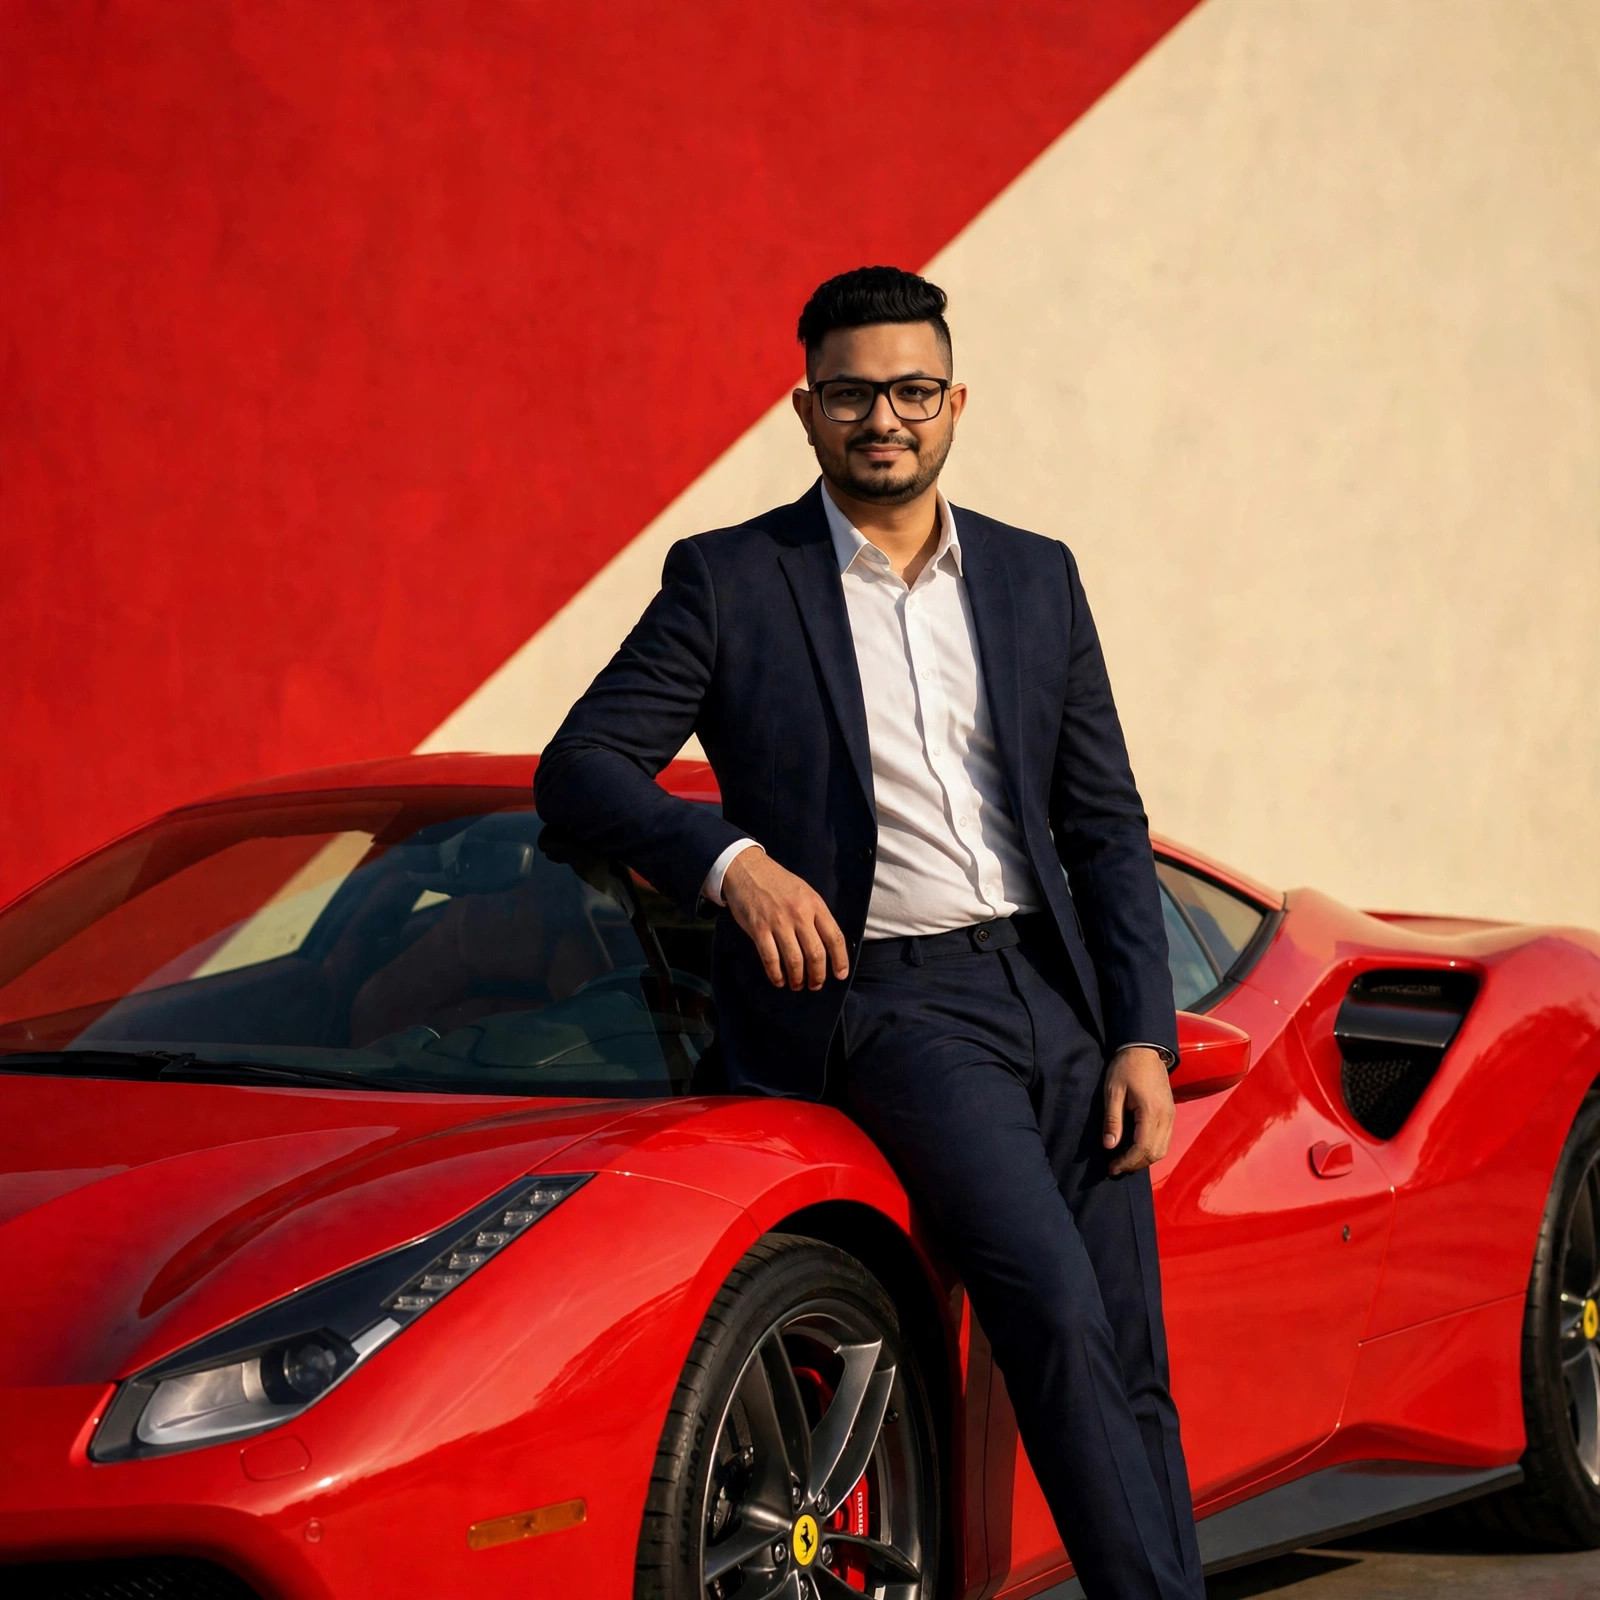
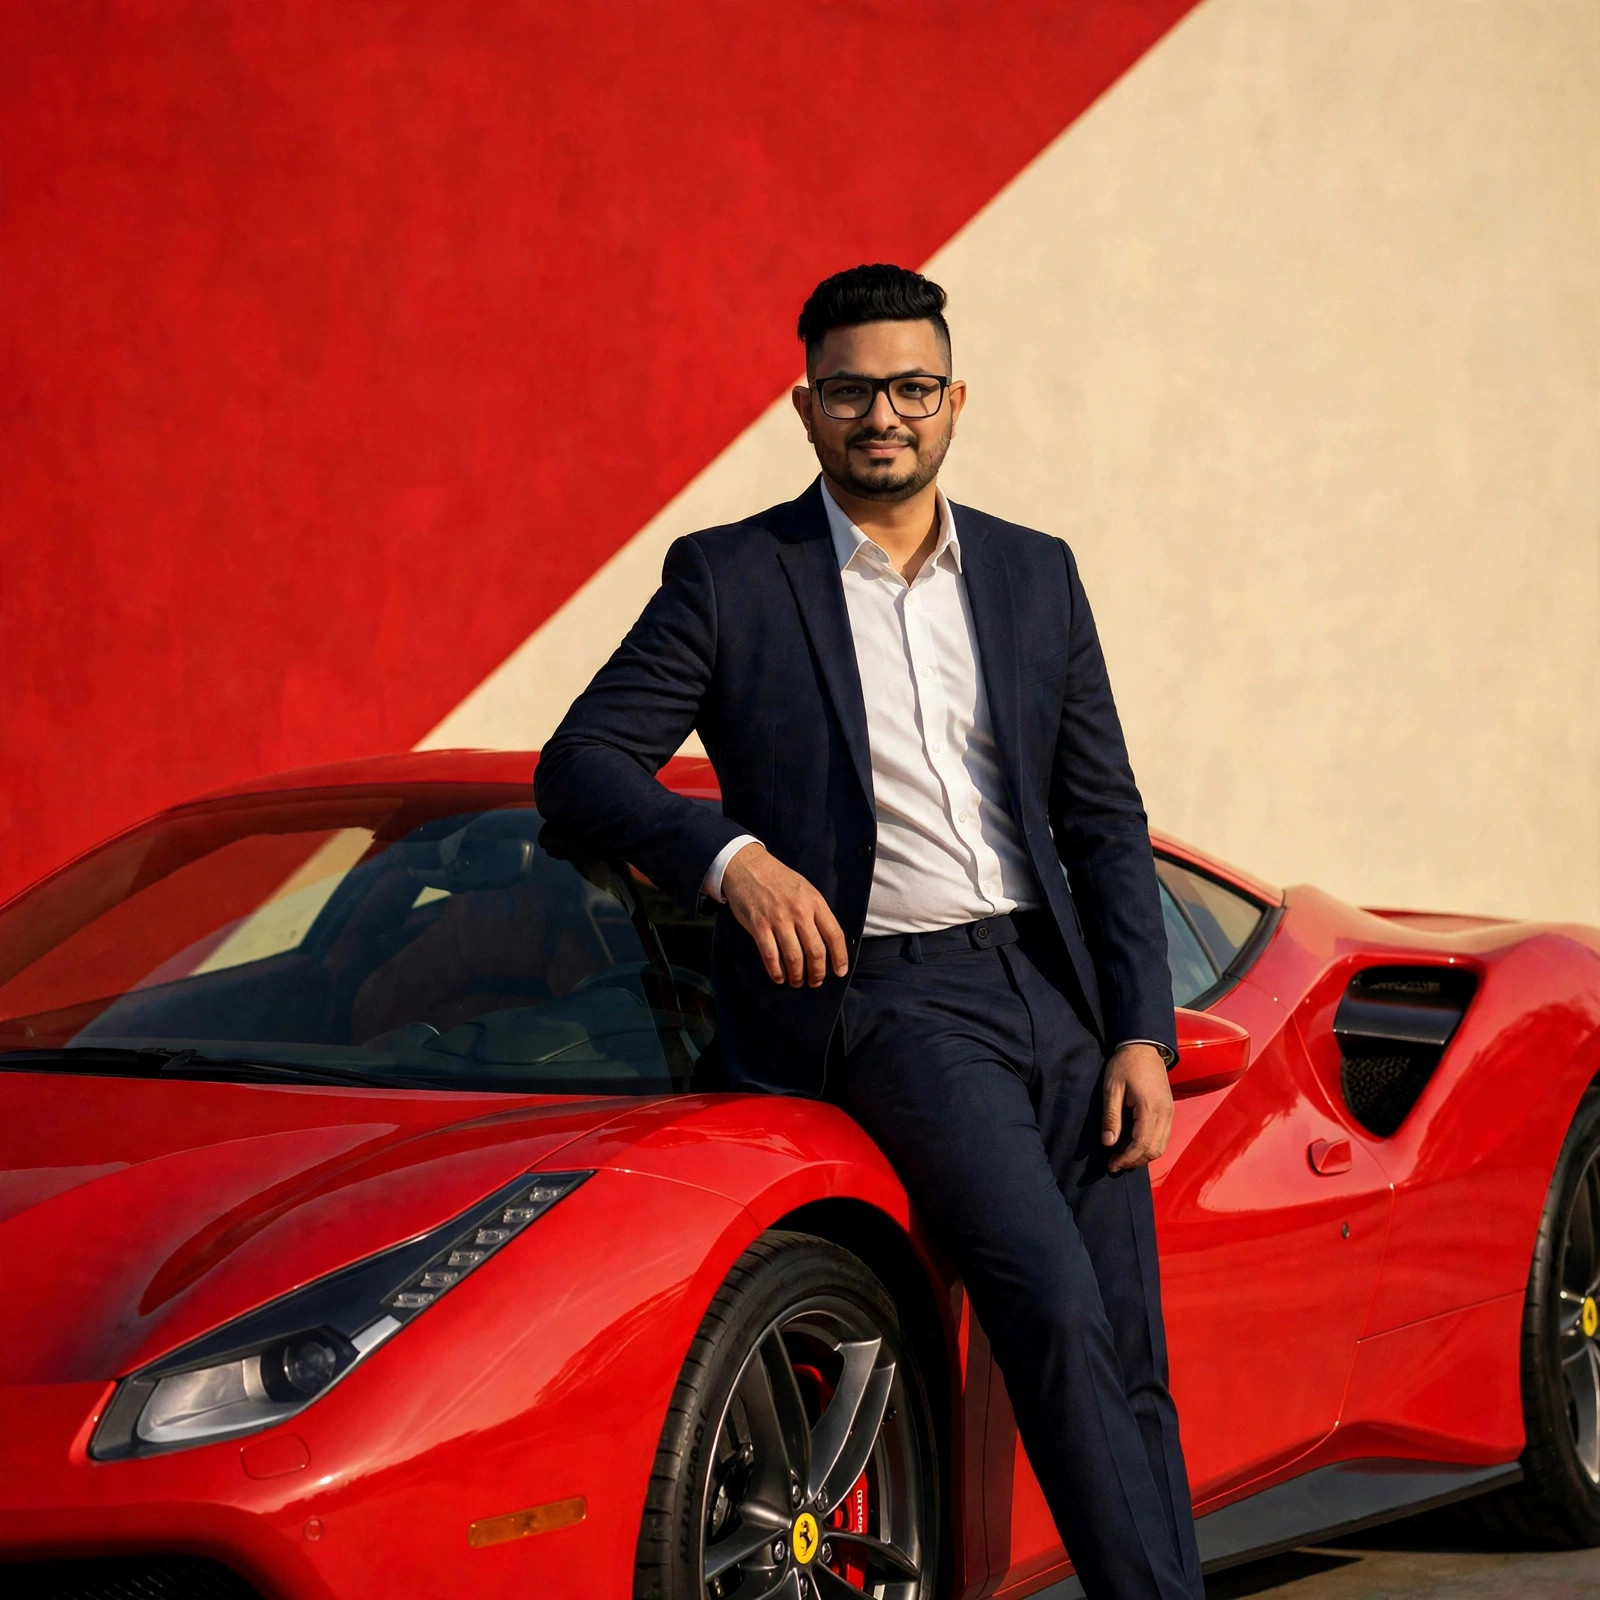
Contact numbers updated (+971 52 322 2946, +92 313 587 4756; WhatsApp on UAE number) + finale car photo face re-matched to real portrait

diff --git a/index.html b/index.html
@@ -577,10 +577,13 @@ footer{background:#08080c;color:#fff;padding:40px 0}
       <a class="contact-pill" href="mailto:dawoodshah2232@gmail.com">
         <svg viewBox="0 0 24 24" fill="none" stroke="currentColor" stroke-width="1.8"><rect x="2.5" y="4.5" width="19" height="15" rx="3"/><path d="M3 7l9 6 9-6"/></svg>
         dawoodshah2232@gmail.com</a>
-      <a class="contact-pill" href="tel:+971508783953">
+      <a class="contact-pill" href="tel:+971523222946">
         <svg viewBox="0 0 24 24" fill="none" stroke="currentColor" stroke-width="1.8"><path d="M22 16.9v3a2 2 0 01-2.2 2 19.8 19.8 0 01-8.6-3.1 19.5 19.5 0 01-6-6A19.8 19.8 0 012.1 4.2 2 2 0 014.1 2h3a2 2 0 012 1.7c.13.96.36 1.9.7 2.8a2 2 0 01-.45 2.1L8.1 9.9a16 16 0 006 6l1.3-1.3a2 2 0 012.1-.45c.9.34 1.84.57 2.8.7a2 2 0 011.7 2z"/></svg>
-        +971 50 878 3953</a>
-      <a class="contact-pill" href="https://wa.me/971508783953" target="_blank" rel="noopener">
+        +971 52 322 2946</a>
+      <a class="contact-pill" href="tel:+923135874756">
+        <svg viewBox="0 0 24 24" fill="none" stroke="currentColor" stroke-width="1.8"><path d="M22 16.9v3a2 2 0 01-2.2 2 19.8 19.8 0 01-8.6-3.1 19.5 19.5 0 01-6-6A19.8 19.8 0 012.1 4.2 2 2 0 014.1 2h3a2 2 0 012 1.7c.13.96.36 1.9.7 2.8a2 2 0 01-.45 2.1L8.1 9.9a16 16 0 006 6l1.3-1.3a2 2 0 012.1-.45c.9.34 1.84.57 2.8.7a2 2 0 011.7 2z"/></svg>
+        +92 313 587 4756</a>
+      <a class="contact-pill" href="https://wa.me/971523222946" target="_blank" rel="noopener">
         <svg viewBox="0 0 24 24" fill="none" stroke="currentColor" stroke-width="1.8"><path d="M21 11.5a8.5 8.5 0 01-12.4 7.5L3 21l2-5.4A8.5 8.5 0 1121 11.5z"/></svg>
         WhatsApp Me</a>
     </div>
